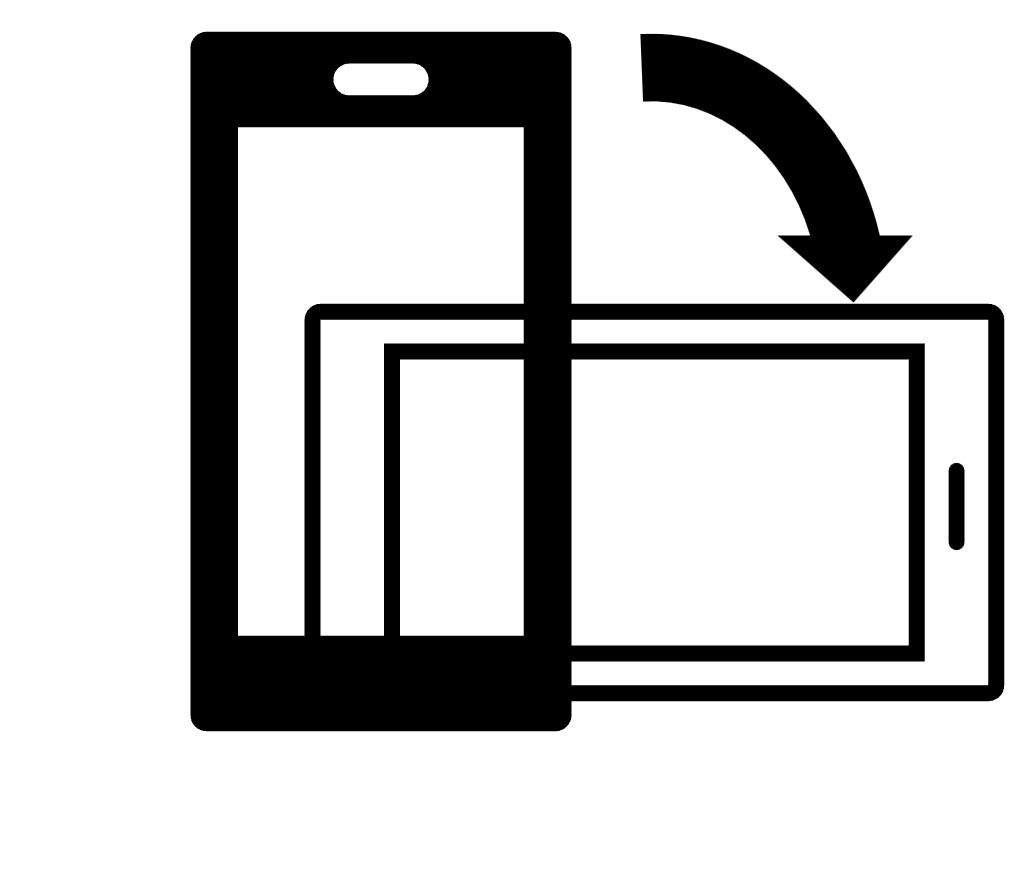
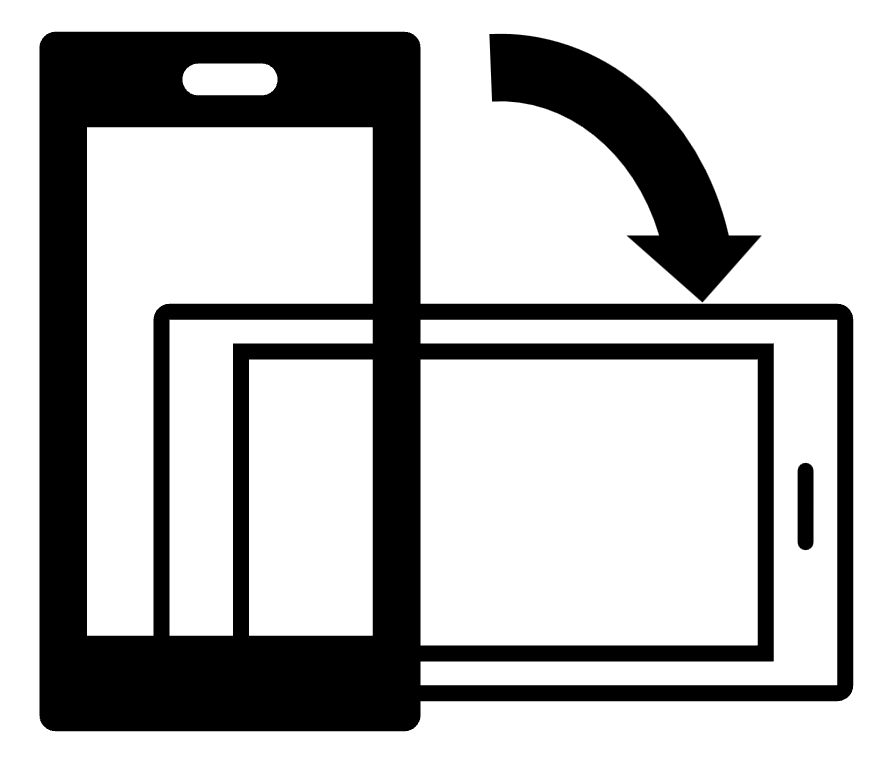
v1.7.2 Mobile changes

diff --git a/css/style.css b/css/style.css
@@ -5,28 +5,6 @@ body {
     padding: 0;
 }
 
-/* Rotation info */
-#rotate-div {
-    position: fixed;
-    left: 0;
-    right: 0;
-    top: 0;
-    bottom: 0;
-    background-color: rgba(0, 0, 0, 0.5);
-}
-
-#rotate-img {
-    position: relative;
-    height: 60%;
-    top: 50%;
-    left: 50%;
-    transform: translate(-50%,-50%);
-}
-
-@media (orientation: landscape) {
-    #rotate-div { display: none; }
-}
-
 /* Canvas etc */
 #canvas-container {
     position: relative;
@@ -254,23 +232,46 @@ p.version {
     background-color: rgb(228, 228, 228);
 }
 
+/* Rotation info */
+#rotate-div {
+    position: fixed;
+    left: 0;
+    right: 0;
+    top: 0;
+    bottom: 0;
+    background-color: rgba(0, 0, 0, 0.5);
+}
+
+#rotate-img {
+    position: relative;
+    height: 60%;
+    top: 50%;
+    left: 50%;
+    max-width: 95%;
+    transform: translate(-50%,-50%);
+}
+
+@media (orientation: landscape) {
+    #rotate-div { display: none; }
+}
+
 
 /* Tweak sizes for small screens */
 @media (max-height: 600px){
     p.version { color: blue; }
 
     img.location {
-        width: 4dvh;
-        height: 4dvh;
-        margin-left: -2dvh;
-        margin-top: -4dvh;
-    }
-
-    img.location:hover{
         width: 6dvh;
         height: 6dvh;
         margin-left: -3dvh;
         margin-top: -6dvh;
+    }
+
+    img.location:hover{
+        width: 7dvh;
+        height: 7dvh;
+        margin-left: -3.5dvh;
+        margin-top: -7dvh;
     }
 
     .popup{ width: 60%; }

diff --git a/index.html b/index.html
@@ -43,7 +43,7 @@
     <img id="rotate-img" src="assets/rotate.png"/>
   </div>
   
-  <p class="version">Version 1.7.1</p>
+  <p class="version">Version 1.7.2</p>
   
   <script src="js/script.js"></script>
 </body>
